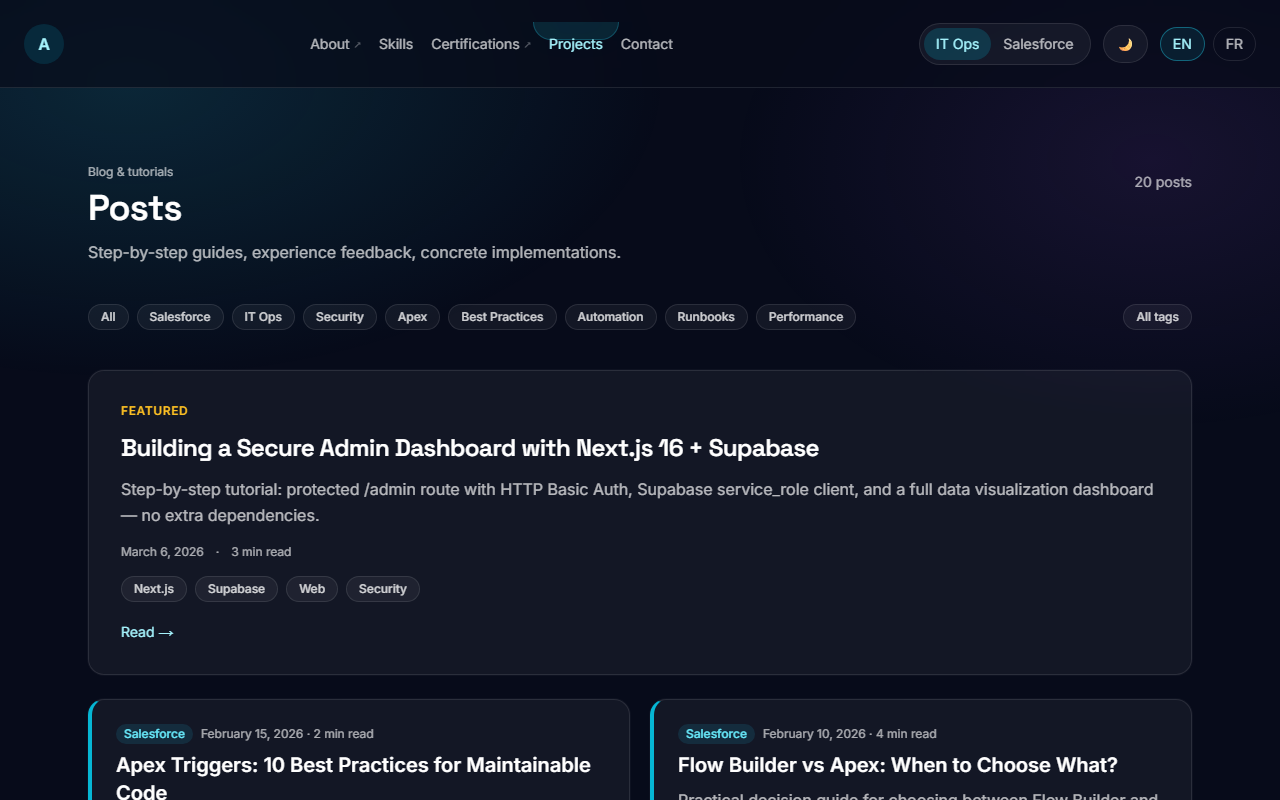
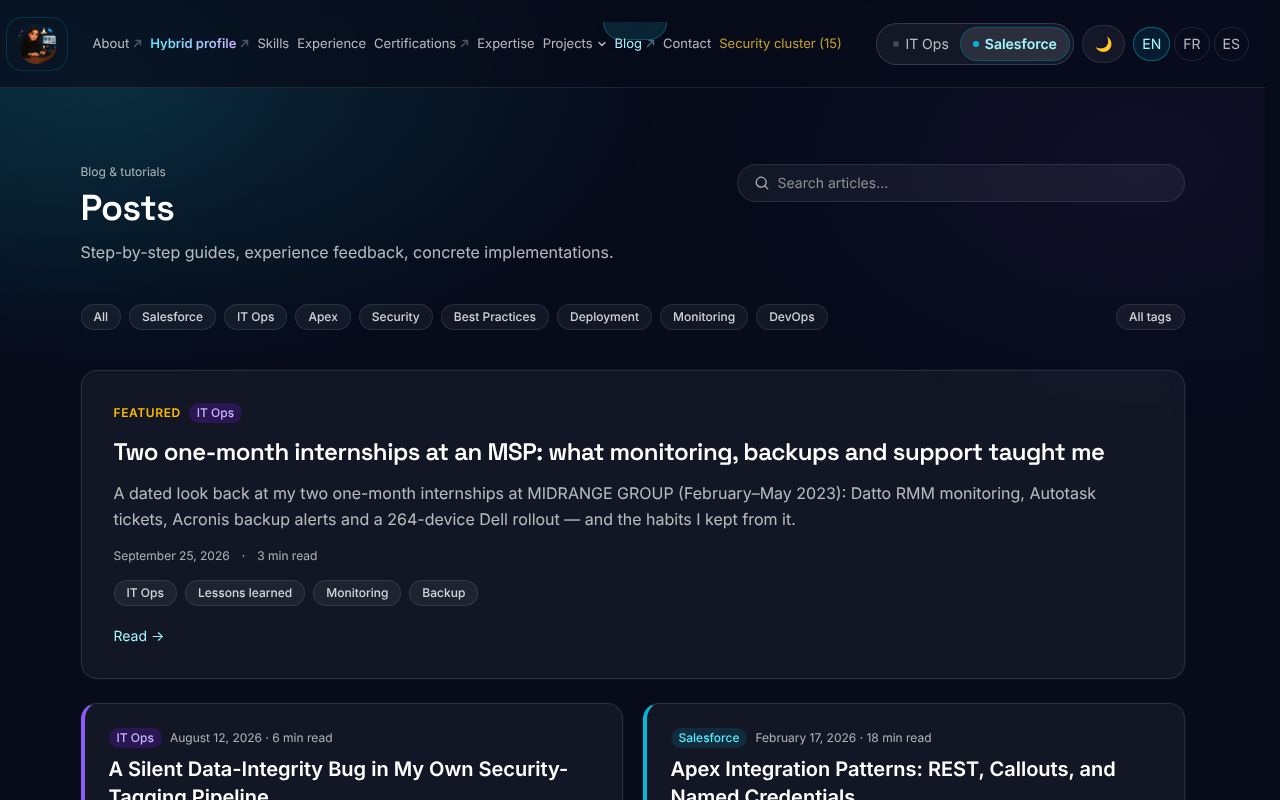
docs(screenshots): captures régénérées et script mis à jour
Hero Salesforce / IT Ops, blog, article, frise de carrière et profil
hybride (nouvelle capture), prises sur la version actuelle.
take-screenshots.js : URL de production corrigée, variables
SCREENSHOT_BASE_URL / SCREENSHOT_ONLY / CHROMIUM_PATH, capture IT Ops
en dernier, attente des animations, défilement vers la frise.
Capture /status conservée (données de production nécessaires).

diff --git a/docs/take-screenshots.js b/docs/take-screenshots.js
@@ -1,26 +1,35 @@
 // docs/take-screenshots.js
 // -------------------------
-// Prend les captures d'écran du portfolio en production via Playwright.
-// Usage : node docs/take-screenshots.js
+// Prend les captures d'écran du portfolio via Playwright.
+// Usage :
+//   node docs/take-screenshots.js                       # production
+//   SCREENSHOT_BASE_URL=http://localhost:3000 node docs/take-screenshots.js
+// Variables optionnelles :
+//   SCREENSHOT_ONLY=hero-salesforce,blog   → ne régénère que ces captures
+//   CHROMIUM_PATH=/chemin/vers/chromium     → navigateur déjà installé
 
 const { chromium } = require("playwright");
 const path = require("path");
 
-const BASE   = "https://Aicha-Imene-DAHOUMANE-Portfolio.dev-one-gold.vercel.app";
+const BASE   = process.env.SCREENSHOT_BASE_URL || "https://aicha-imene-dahoumane-portfolio.vercel.app";
+const ONLY   = (process.env.SCREENSHOT_ONLY || "").split(",").map((s) => s.trim()).filter(Boolean);
 const OUT    = path.join(__dirname, "screenshots");
 const VPORT  = { width: 1280, height: 800 };
 
 async function shot(page, name, url, { waitFor, action } = {}) {
+  if (ONLY.length && !ONLY.includes(name)) return;
   console.log(`  → ${name}`);
   await page.goto(`${BASE}${url}`, { waitUntil: "networkidle" });
   if (action) await action(page);
   if (waitFor) await page.waitForSelector(waitFor, { timeout: 8000 }).catch(() => {});
-  await page.waitForTimeout(800); // animations
+  await page.waitForTimeout(1800); // animations (révélations, indicateur de navigation)
   await page.screenshot({ path: path.join(OUT, `${name}.png`), fullPage: false });
 }
 
 (async () => {
-  const browser = await chromium.launch();
+  const browser = await chromium.launch(
+    process.env.CHROMIUM_PATH ? { executablePath: process.env.CHROMIUM_PATH } : {}
+  );
   const context = await browser.newContext({
     viewport: VPORT,
     colorScheme: "dark",
@@ -33,16 +42,6 @@ async function shot(page, name, url, { waitFor, action } = {}) {
   // 1. Hero Salesforce (dark, default track)
   await shot(page, "hero-salesforce", "/en", {
     waitFor: "[data-testid='hero'], h1, .hero",
-  });
-
-  // 2. Hero IT Ops — cliquer sur le toggle de track
-  await shot(page, "hero-itops", "/en", {
-    action: async (p) => {
-      // Le toggle est un bouton qui change de track
-      const toggle = p.locator("button").filter({ hasText: /IT Ops|itops/i }).first();
-      if (await toggle.isVisible().catch(() => false)) await toggle.click();
-      await p.waitForTimeout(600);
-    },
   });
 
   // 3. Blog listing
@@ -59,13 +58,31 @@ async function shot(page, name, url, { waitFor, action } = {}) {
   await shot(page, "about", "/en/about", {
     waitFor: "h1",
     action: async (p) => {
-      // Scroller jusqu'à la timeline
-      await p.evaluate(() => window.scrollTo(0, 600));
-      await p.waitForTimeout(600);
+      // Amener la frise de carrière en haut de l'écran (sous la barre de navigation)
+      await p.evaluate(() => {
+        const el = document.querySelector('ol[aria-label="Career timeline"]');
+        if (el) window.scrollTo(0, el.getBoundingClientRect().top + window.scrollY - 220);
+      });
+      await p.waitForTimeout(1200);
     },
   });
 
-  // 6. Status page — health checks + sparklines
+  // 6. Profil hybride — page la plus différenciante
+  await shot(page, "hybride", "/en/hybride", {
+    waitFor: "h1",
+  });
+
+  // Hero IT Ops — en dernier : le choix de profil est mémorisé (cookie) et
+  // s'appliquerait sinon aux pages suivantes.
+  await shot(page, "hero-itops", "/en", {
+    action: async (p) => {
+      const toggle = p.locator("button").filter({ hasText: /IT Ops|itops/i }).first();
+      if (await toggle.isVisible().catch(() => false)) await toggle.click();
+      await p.waitForTimeout(3500); // fin de l'animation de frappe du sous-titre
+    },
+  });
+
+  // 7. Status page — health checks + sparklines (données réelles : à prendre en production)
   await shot(page, "status", "/en/status", {
     waitFor: "h2",
   });

diff --git a/CHANGELOG.md b/CHANGELOG.md
@@ -11,6 +11,8 @@ Versions follow [Semantic Versioning](https://semver.org/spec/v2.0.0.html).
 
 ### Changed
 
+- **Captures d'écran du README régénérées** — hero Salesforce et IT Ops, blog, article, frise de carrière et nouvelle capture du profil hybride, prises sur la version actuelle (Tailwind 4, lot 1 de l'audit, bouton de réservation). `docs/take-screenshots.js` : URL de production corrigée, `SCREENSHOT_BASE_URL`, `SCREENSHOT_ONLY` et `CHROMIUM_PATH` optionnels, capture IT Ops prise en dernier (le choix de profil est mémorisé), attente de la fin des animations, défilement jusqu'à la frise de carrière. La capture `/status` est conservée : elle nécessite les données réelles de production.
+
 - **Lien de réservation Proton Calendar par défaut** — `lib/booking.ts` embarque le lien public de la page de réservation comme valeur par défaut : les boutons « Réserver un appel » s'affichent sans configuration Vercel. `NEXT_PUBLIC_BOOKING_URL` reste prioritaire si elle est définie.
 
 - **Documentation à jour** — README : stack (Tailwind CSS 4, polices auto-hébergées, Formhook sans stockage, réservation Proton Calendar), architecture et clés Redis réelles, pages (`/hybride`, `/work-with-me`, `/contact`, 404 localisée), 14 articles × 3 langues, flux RSS FR/EN/ES, structure du projet (application à la racine du dépôt, routes API actuelles), variables (`IP_HASH_SALT`, `NEXT_PUBLIC_BOOKING_URL`), section sécurité (CSP sans tiers, limite admin 5 / 15 min, pseudonymisation). CONTRIBUTING : commandes depuis la racine, Tailwind 4 (`@theme`), traductions FR/EN/ES. Colophon : description CSP corrigée (plus de Vercel Analytics, proxy et `strict-dynamic`), Tailwind CSS 4.

diff --git a/README.md b/README.md
@@ -23,9 +23,15 @@ Features a **track toggle** (Salesforce ↔ IT Ops) that dynamically adapts the 
 |---|---|
 | ![Blog](docs/screenshots/blog.png) | ![Blog article](docs/screenshots/blog-article.png) |
 
-| About — career timeline | Status — health checks & sparklines |
+| About — career timeline | Hybrid profile — Salesforce × IT Ops |
 |---|---|
-| ![About](docs/screenshots/about.png) | ![Status](docs/screenshots/status.png) |
+| ![About](docs/screenshots/about.png) | ![Hybrid profile](docs/screenshots/hybride.png) |
+
+| Status — health checks & sparklines |
+|---|
+| ![Status](docs/screenshots/status.png) |
+
+Screenshots are generated with `node docs/take-screenshots.js` (Playwright, 1280 × 800, dark theme). Set `SCREENSHOT_BASE_URL` to capture a local build and `SCREENSHOT_ONLY` to refresh a subset.
 
 ---
 
